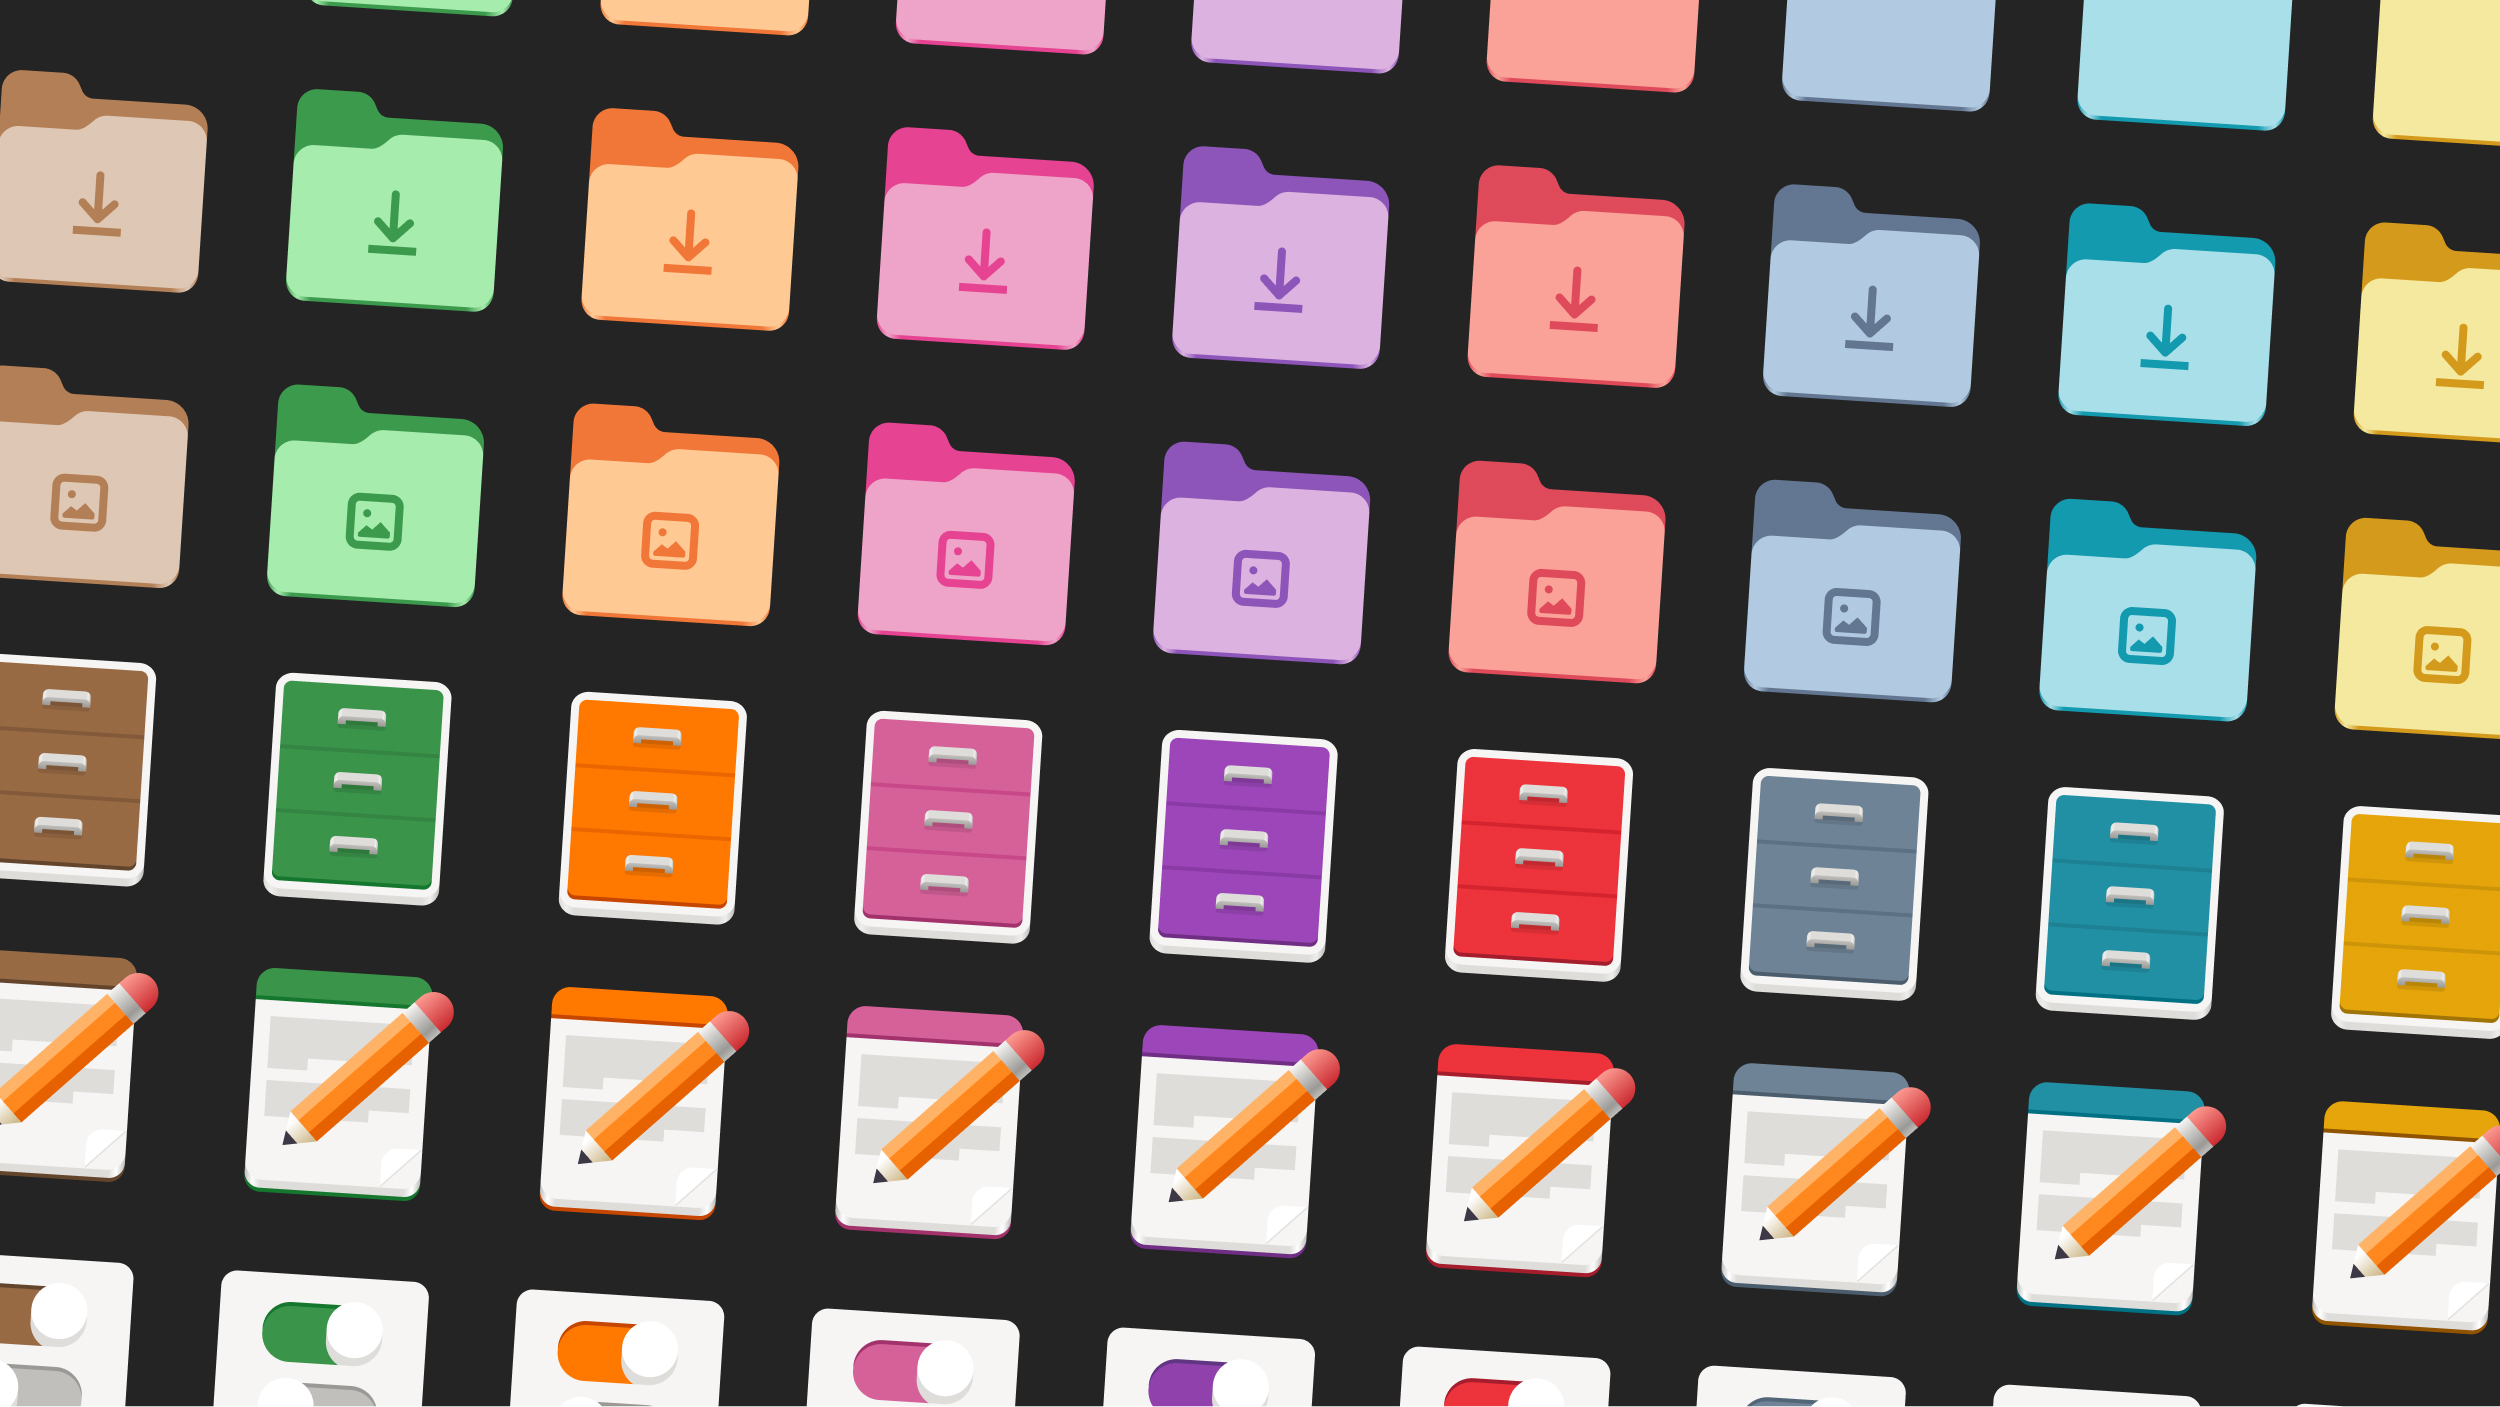
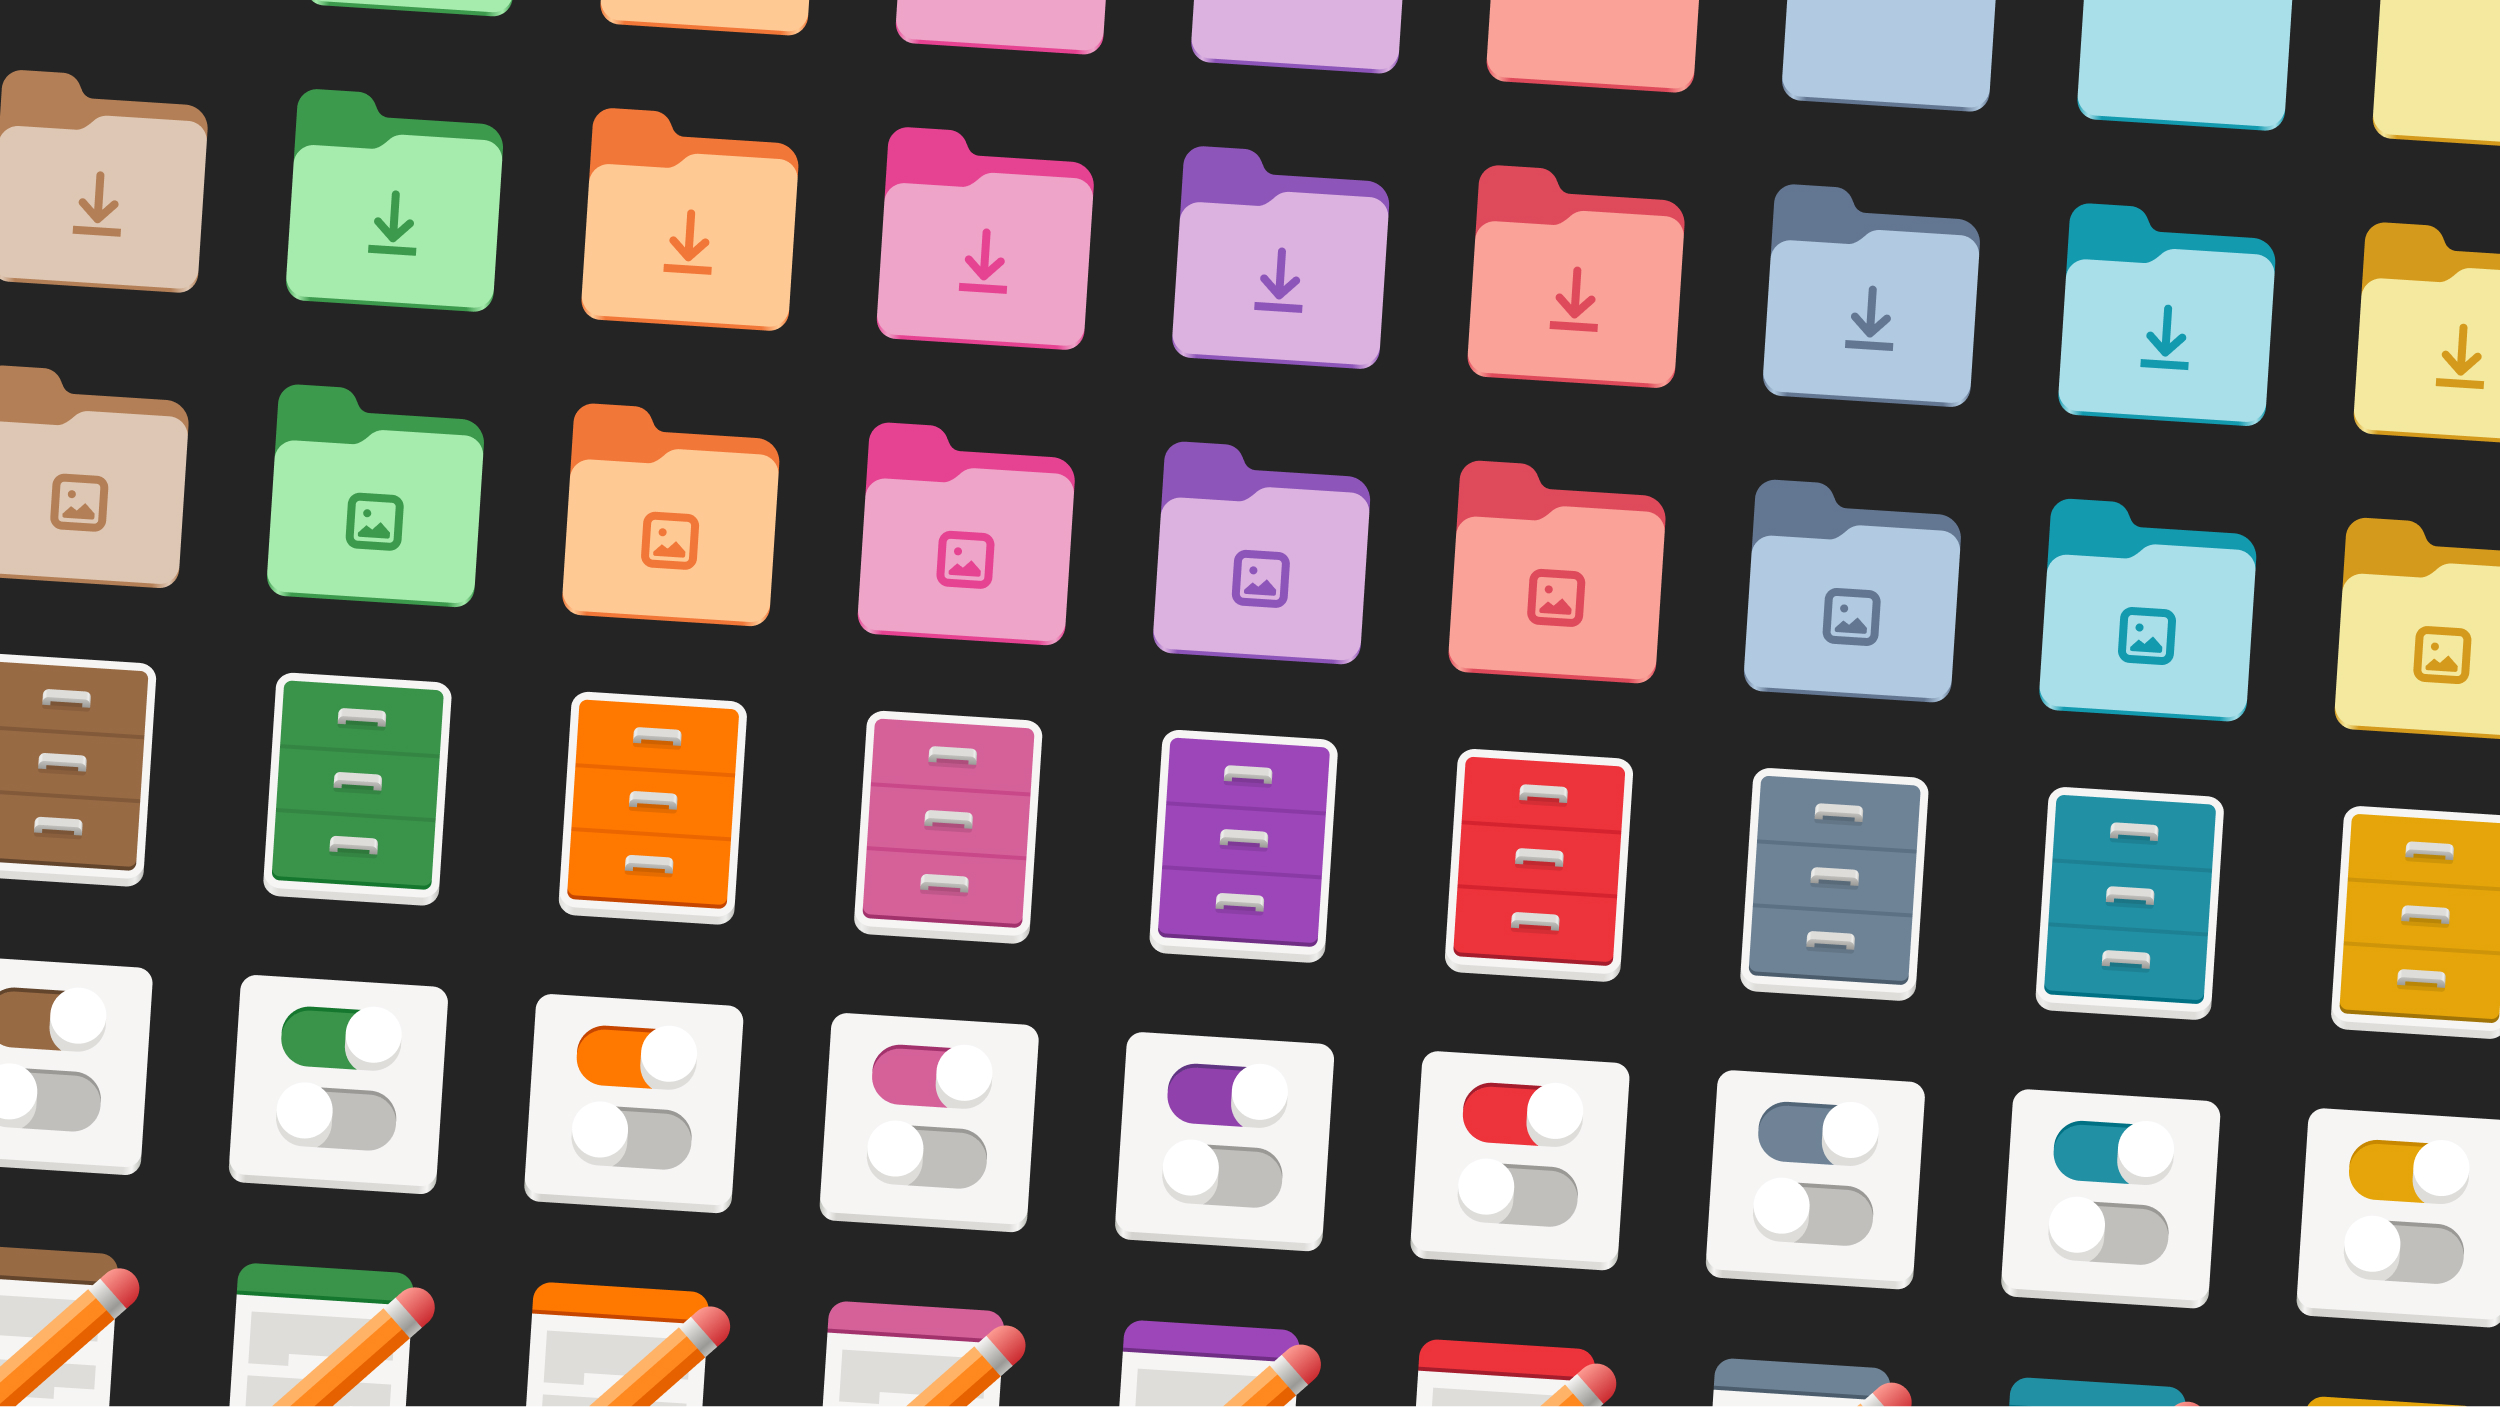
updated thumbnail

diff --git a/README.md b/README.md
@@ -1,6 +1,6 @@
 # Adwaita-colors
 
-![SHOWCASE](./v2.1.1.jpg)
+![showcase](./v2.1.1.jpg)
 
 Adwaita Colors enhances the Adwaita icon theme by integrating GNOME’s accent color feature, introduced in GNOME 47. This project ensures that your Adwaita icons reflect the same accent color as your GNOME theme, instead of the default blue, for a more cohesive and customized look.
 Motivation
